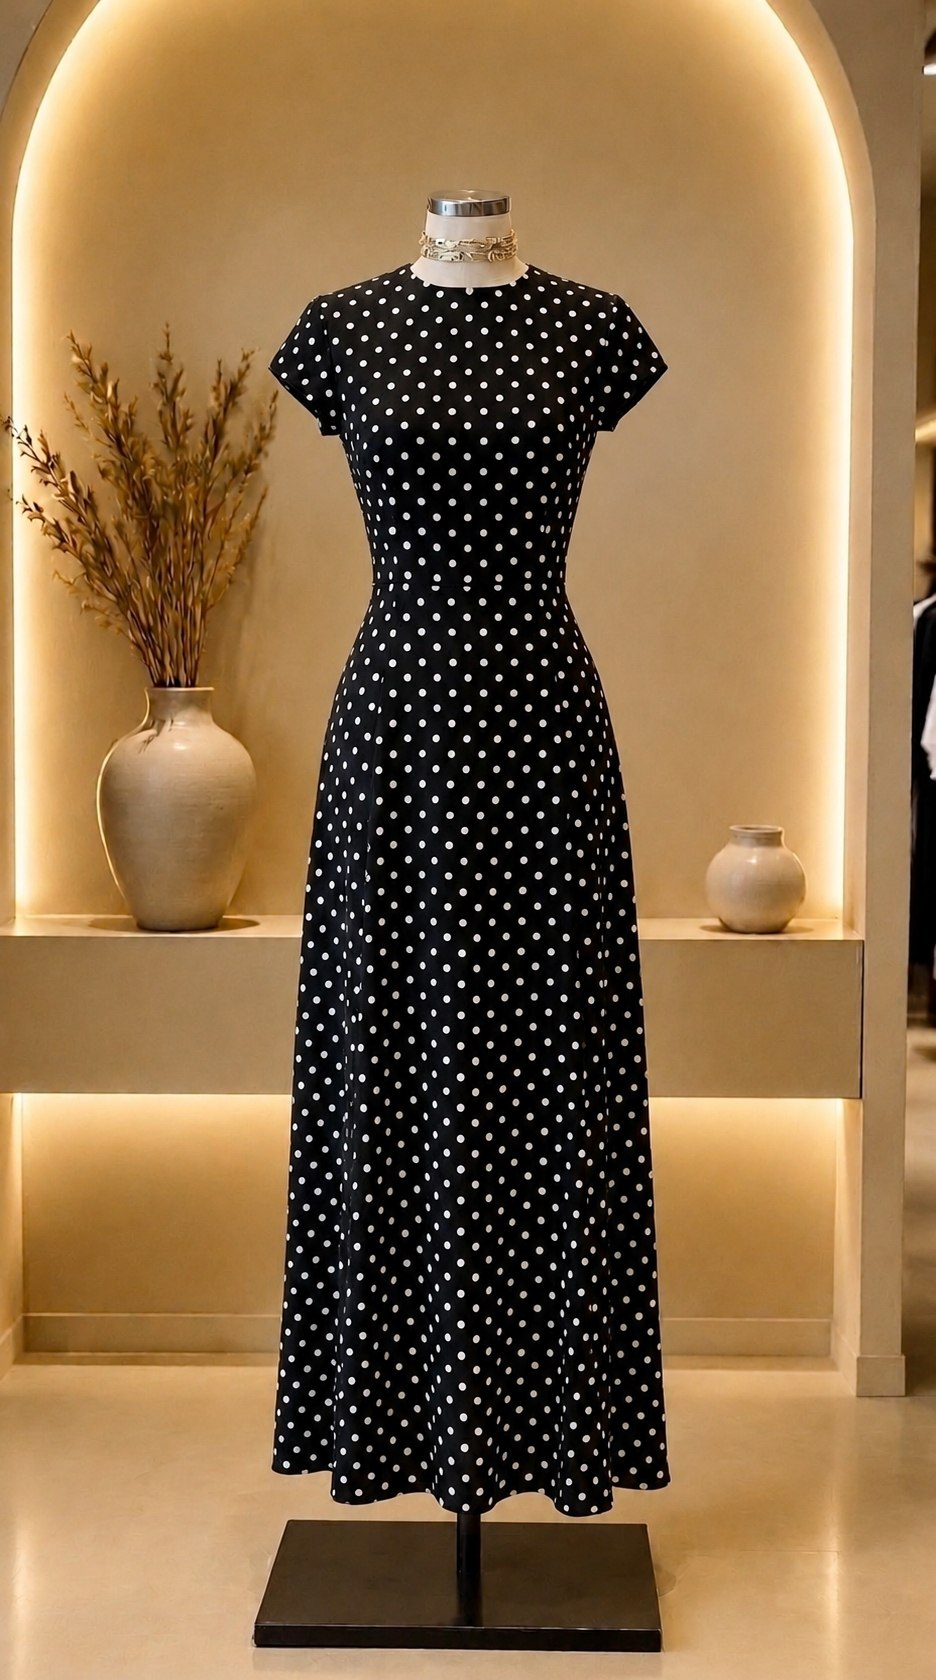
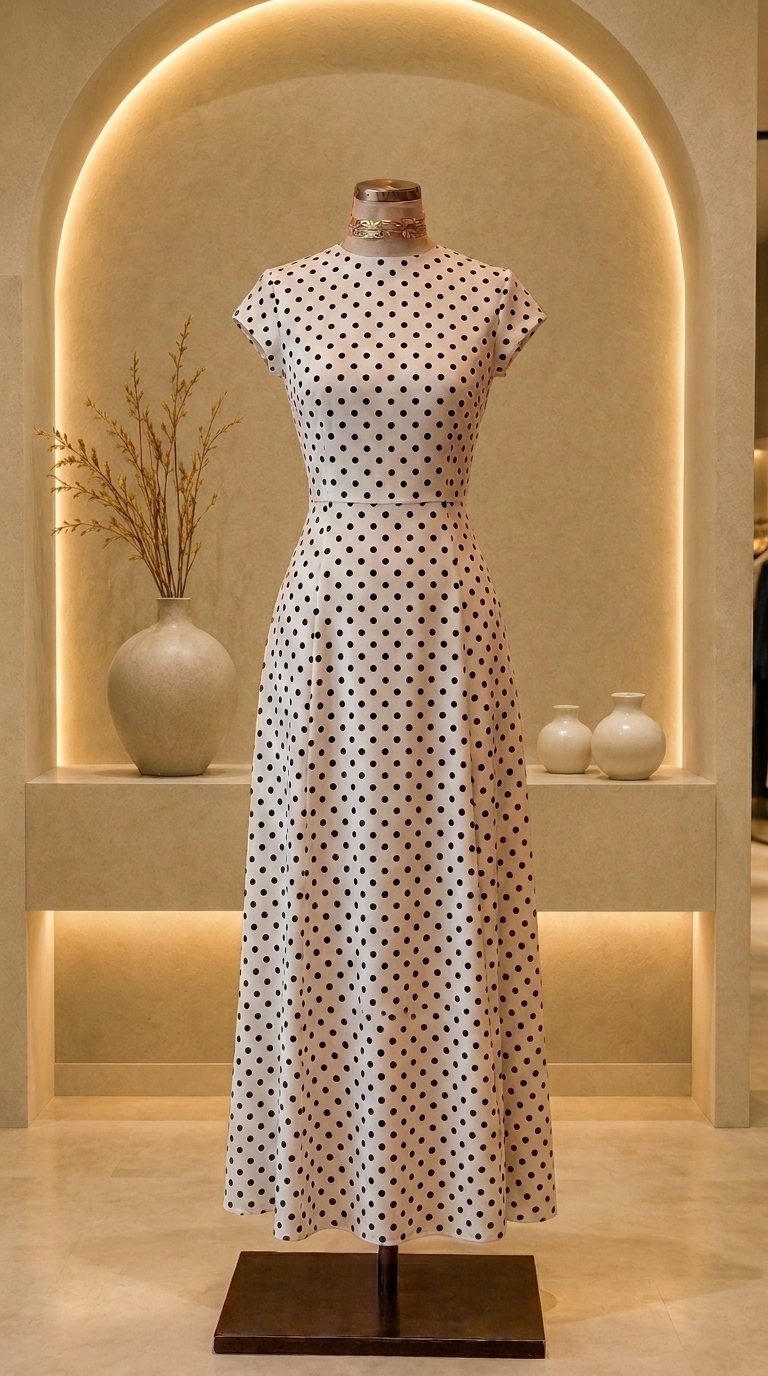
Add 4 new outfit images and OutfitGallery section
- Added 4 new outfits: olive ruffle, cream silk, white beach, red velvet
- Created OutfitGallery component with glassmorphism styling
- Updated products.ts with new product data
- Integrated OutfitGallery into Home page
- Added all outfit images to public/outfits/

diff --git a/src/components/OutfitGallery.tsx b/src/components/OutfitGallery.tsx
@@ -1,0 +1,107 @@
+"use client";
+
+import { useState } from "react";
+import { motion } from "framer-motion";
+import { ShoppingBag, Eye } from "lucide-react";
+import { products } from "@/data/products";
+import { useNavigate } from "react-router-dom";
+
+export function OutfitGallery() {
+  const [hoveredId, setHoveredId] = useState<string | null>(null);
+  const navigate = useNavigate();
+
+  const newOutfits = products.filter((p) =>
+    ["olive-ruffle", "cream-silk", "white-beach", "red-velvet"].includes(p.id)
+  );
+
+  return (
+    <section className="py-16 md:py-24 px-4 sm:px-6">
+      <div className="max-w-7xl mx-auto">
+        {/* Section Header */}
+        <motion.div
+          initial={{ opacity: 0, y: 20 }}
+          whileInView={{ opacity: 1, y: 0 }}
+          viewport={{ once: true }}
+          transition={{ duration: 0.6 }}
+          className="text-center mb-12"
+        >
+          <h2 className="font-display text-3xl md:text-4xl font-bold text-foreground mb-3">
+            الوصلات <span className="text-primary">الجديدة</span>
+          </h2>
+          <p className="text-sm text-foreground/50 max-w-lg mx-auto">
+            أحدث الإضافات إلى مجموعتنا — تصاميم حصرية ب الخامات الفاخرة
+          </p>
+        </motion.div>
+
+        {/* Outfits Grid */}
+        <div className="grid grid-cols-1 sm:grid-cols-2 lg:grid-cols-4 gap-6">
+          {newOutfits.map((outfit, index) => (
+            <motion.div
+              key={outfit.id}
+              initial={{ opacity: 0, y: 30 }}
+              whileInView={{ opacity: 1, y: 0 }}
+              viewport={{ once: true }}
+              transition={{ duration: 0.5, delay: index * 0.1 }}
+              className="group relative glass-card overflow-hidden rounded-2xl"
+              onMouseEnter={() => setHoveredId(outfit.id)}
+              onMouseLeave={() => setHoveredId(null)}
+            >
+              {/* Image */}
+              <div className="relative aspect-[3/4] overflow-hidden">
+                <img
+                  src={outfit.images[0]}
+                  alt={outfit.name}
+                  className="w-full h-full object-cover transition-transform duration-500 group-hover:scale-110"
+                />
+                {/* Glassmorphism overlay on hover */}
+                <div
+                  className={`absolute inset-0 bg-black/40 backdrop-blur-sm transition-opacity duration-300 flex items-center justify-center gap-3 ${
+                    hoveredId === outfit.id ? "opacity-100" : "opacity-0"
+                  }`}
+                >
+                  <button
+                    onClick={() => navigate(`/product/${outfit.id}`)}
+                    className="px-4 py-2 rounded-full bg-white/20 backdrop-blur-md border border-white/30 text-white text-xs font-medium hover:bg-white/30 transition-colors flex items-center gap-2"
+                  >
+                    <Eye size={14} />
+                    عرض
+                  </button>
+                  <button className="px-4 py-2 rounded-full bg-primary/80 backdrop-blur-md text-white text-xs font-medium hover:bg-primary transition-colors flex items-center gap-2">
+                    <ShoppingBag size={14} />
+                    أضيفي
+                  </button>
+                </div>
+                {/* Badge */}
+                {outfit.badge && (
+                  <div className="absolute top-3 right-3 px-3 py-1 rounded-full bg-primary/90 backdrop-blur-sm text-white text-[10px] font-bold">
+                    {outfit.badge}
+                  </div>
+                )}
+              </div>
+
+              {/* Info */}
+              <div className="p-4 text-right">
+                <h3 className="text-sm font-bold text-foreground mb-1">
+                  {outfit.name}
+                </h3>
+                <p className="text-[11px] text-foreground/40 mb-2">
+                  {outfit.fabric}
+                </p>
+                <div className="flex items-center justify-end gap-2">
+                  <span className="text-sm font-bold text-primary">
+                    {outfit.price} د.ل
+                  </span>
+                  {outfit.originalPrice && (
+                    <span className="text-xs text-foreground/30 line-through">
+                      {outfit.originalPrice} د.ل
+                    </span>
+                  )}
+                </div>
+              </div>
+            </motion.div>
+          ))}
+        </div>
+      </div>
+    </section>
+  );
+}

diff --git a/src/data/products.ts b/src/data/products.ts
@@ -16,6 +16,10 @@ export interface Product {
 }
 
 const colorBlack = { name: "أسود", hex: "#3d3929" };
+const colorOlive = { name: "زيتوني", hex: "#6b7c4e" };
+const colorCream = { name: "كريمي", hex: "#f5f0e8" };
+const colorWhite = { name: "أبيض", hex: "#ffffff" };
+const colorRed = { name: "أحمر", hex: "#8b1a1a" };
 
 export const products: Product[] = [
   {
@@ -35,6 +39,75 @@ export const products: Product[] = [
     ],
     rating: 4.9,
     reviewCount: 47,
+  },
+  {
+    id: "olive-ruffle",
+    name: "عباية رuffle الزيتونية",
+    fabric: "ساتان حريري",
+    category: "السهرة",
+    price: 320,
+    originalPrice: 400,
+    badge: "جديد",
+    colors: [colorOlive],
+    sizes: ["S", "M", "L", "XL"],
+    description: "عباية رuffle الزيتونية — تصميم أنيق بتفاصيل فرnfze حريرية تمنحها طابعاً عصرياً وراقياً.",
+    details: ["القماش: ساتان حريري فاخر", "القصة: متوسطة مع تفاصيل ruffle", "اللون: أخضر زيتوني ناعم", "العناية: غسيل يدوي أو جاف"],
+    images: [
+      "/outfits/olive-ruffle-abaya.jpg",
+    ],
+    rating: 4.8,
+    reviewCount: 23,
+  },
+  {
+    id: "cream-silk",
+    name: "العباية الكريمية الحريرية",
+    fabric: "حرير طبيعي",
+    category: "الرسمية",
+    price: 350,
+    originalPrice: 420,
+    colors: [colorCream],
+    sizes: ["S", "M", "L", "XL"],
+    description: "العباية الكريمية الحريرية — أناقة مطلقة بلمسة حريرية ناعمة تناسب المناسبات الرسمية والكاجوال على حدٍ سواء.",
+    details: ["القماش: حرير طبيعي ١٠٠٪", "القصة: فضفاضة وأنيقة", "اللون: كريمي دافئ", "العناية: غسيل جاف فقط"],
+    images: [
+      "/outfits/cream-abaya.jpg",
+    ],
+    rating: 4.7,
+    reviewCount: 19,
+  },
+  {
+    id: "white-beach",
+    name: "عباية الشاطئ البيضاء",
+    fabric: "شيفون حريري",
+    category: "الكاجوال",
+    price: 280,
+    colors: [colorWhite],
+    sizes: ["S", "M", "L", "XL"],
+    description: "عباية الشاطئ البيضاء — خفيفة وflows naturally، مثالية للصيف والتنزه على الشاطئ.",
+    details: ["القماش: شيفون حريري خفيف", "القصة: مفتوحة وflows naturally", "اللون: أبيض صافي", "العناية: غسيل يدوي بارد"],
+    images: [
+      "/outfits/white-beach-abaya.jpg",
+    ],
+    rating: 4.6,
+    reviewCount: 31,
+  },
+  {
+    id: "red-velvet",
+    name: "عباية المخمل الحمراء",
+    fabric: "مخمل فاخر",
+    category: "السهرة",
+    price: 420,
+    originalPrice: 500,
+    badge: "حصري",
+    colors: [colorRed],
+    sizes: ["S", "M", "L", "XL"],
+    description: "عباية المخمل الحمراء — قطعة استثنائية بقماش مخمل فاخر وبروش أنيق يعكس الفخامة الليبية.",
+    details: ["القماش: مخمل فاخر", "القصة: أنيقة مع بروش مزخرف", "اللون: أحمر غامق فاخر", "العناية: غسيل جاف فقط"],
+    images: [
+      "/outfits/red-velvet-abaya.jpg",
+    ],
+    rating: 4.9,
+    reviewCount: 15,
   },
 ];
 

diff --git a/src/pages/Home.tsx b/src/pages/Home.tsx
@@ -9,6 +9,7 @@ import { GlobeSection } from "@/components/GlobeSection";
 import FlipGallery from "@/components/ui/flip-gallery";
 import IPhoneMockup from "@/components/ui/iphone-mockup";
 import { ContactForm } from "@/components/ContactForm";
+import { OutfitGallery } from "@/components/OutfitGallery";
 
 const faqs = [
   { q: "كيف يمكنني طلب عباية؟", a: "يمكنكِ تصفح المجموعات واختيار العباية التي تفضلينها، ثم إضافتها إلى سلة التسوق وإتمام الطلب. يمكنكِ أيضًا التواصل معنا عبر الواتساب." },
@@ -57,6 +58,7 @@ export function Home() {
     <>
       <LuminaHero />
       <ProductCarousel />
+      <OutfitGallery />
       <ComparisonTable />
       <IconBar />
       <GlobeSection />
